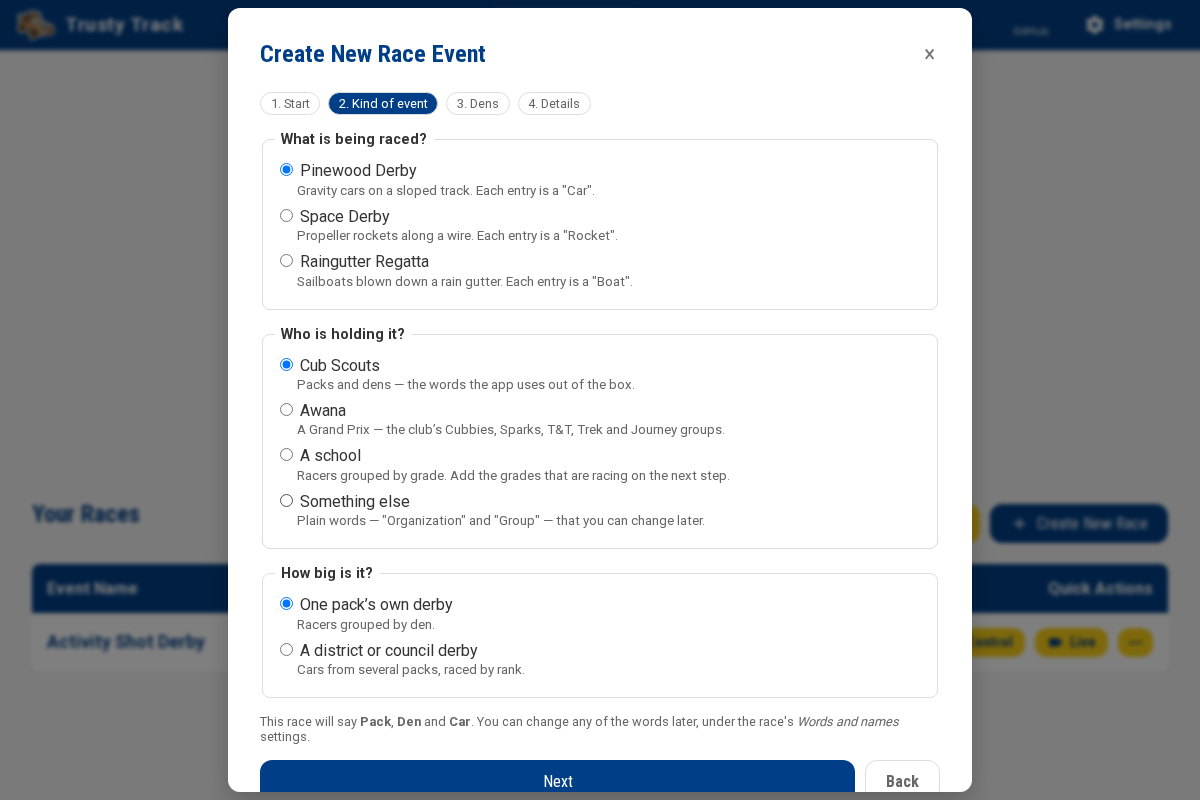
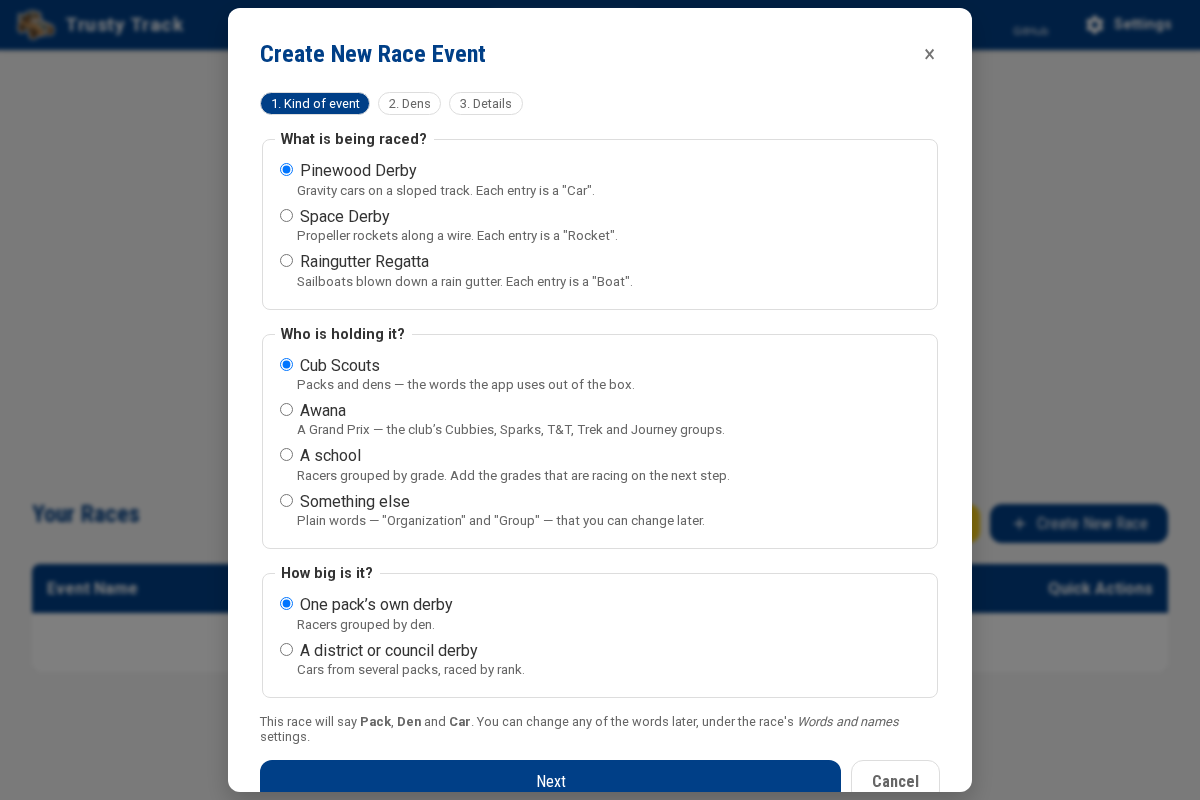
Move the wizard questions screenshot into the deterministic first-run phase
The picture of the setup wizard's "Kind of event" step was taken in the
parallel phase, where its step-count header depends on whether some other
spec's race happens to exist yet at that moment — nondeterministic, and
unrelated to the wizard itself. It now belongs to `screenshot-first-run.spec.ts`,
taken before any race exists, which also matches the "Creating Your First
Race" section it illustrates: a first-time operator has no previous race to
be offered, so the wizard opens directly on this step.

Closes #708

diff --git a/frontend/e2e/docs/screenshot-first-run.spec.ts b/frontend/e2e/docs/screenshot-first-run.spec.ts
@@ -81,6 +81,24 @@ test('screenshot the first run', async ({ page }) => {
     // 01: the home page of an install with no races on it.
     await page.screenshot({ path: path.join(GETTING_STARTED_DIR, '01-home-page.png') });
 
+    // 03: the wizard's "Kind of event" step (#662), for
+    // docs/getting-started.md's "Creating Your First Race" section. This used
+    // to be taken in the parallel phase, where whether the wizard's opening
+    // "Start" step (scratch vs. copy a previous race) had already been shown
+    // depends on whether some other spec's race happened to exist yet — a
+    // fact the questions step's own step-count header renders, so the
+    // picture changed run to run for reasons that had nothing to do with the
+    // wizard (#708). No race exists yet at this point in this project, so the
+    // wizard always lands on this step directly with nothing before it,
+    // which is also the state the section is actually about: a first-time
+    // operator has no previous race to be offered.
+    await page.getByRole('button', { name: /Create New Race/i }).click();
+    await expect(page.getByTestId('setup-step-start')).toHaveCount(0);
+    await expect(page.getByTestId('setup-step-kind')).toBeVisible();
+    await page.screenshot({ path: path.join(GETTING_STARTED_DIR, '03-new-race-questions.png') });
+    await page.keyboard.press('Escape');
+    await expect(page.getByRole('heading', { name: 'Create New Race Event' })).toBeHidden();
+
     // 03 (copy): the setup wizard's "copy settings from a previous race"
     // choice (#662). It is offered only once a race exists, and it lists every
     // race there is — so it is photographed here, the one place that can

diff --git a/frontend/e2e/docs/race-day.spec.ts b/frontend/e2e/docs/race-day.spec.ts
@@ -58,13 +58,15 @@ test('take screenshots', async ({ page }) => {
     await page.getByRole('button', { name: /Create New Race/i }).click();
     await expect(page.getByRole('heading', { name: 'Create New Race Event' })).toBeVisible();
 
-    // The setup wizard (#662) in front of the form: the questions, the dens
-    // it scaffolds from the answers, and then the form itself. The dens are
-    // the six ranks with their rank colours — the same six `populateRace`
-    // hands a test roster — so the pictures further down are unchanged by
-    // the race having dens before the roster arrives.
+    // The setup wizard (#662) in front of the form: the dens it scaffolds
+    // from the questions, and then the form itself. The dens are the six
+    // ranks with their rank colours — the same six `populateRace` hands a
+    // test roster — so the pictures further down are unchanged by the race
+    // having dens before the roster arrives. The questions step itself is
+    // photographed in `screenshot-first-run.spec.ts` instead (#708) — its
+    // step-count header depends on whether a previous race already exists,
+    // which this parallel phase cannot promise from one run to the next.
     await passSetupStart(page);
-    await page.screenshot({ path: path.join(screenshotsDir, 'getting-started/03-new-race-questions.png') });
     await page.getByTestId('setup-next').click();
     await expect(page.getByTestId('setup-step-groups')).toBeVisible();
     await page.screenshot({ path: path.join(screenshotsDir, 'getting-started/03-new-race-groups.png') });
